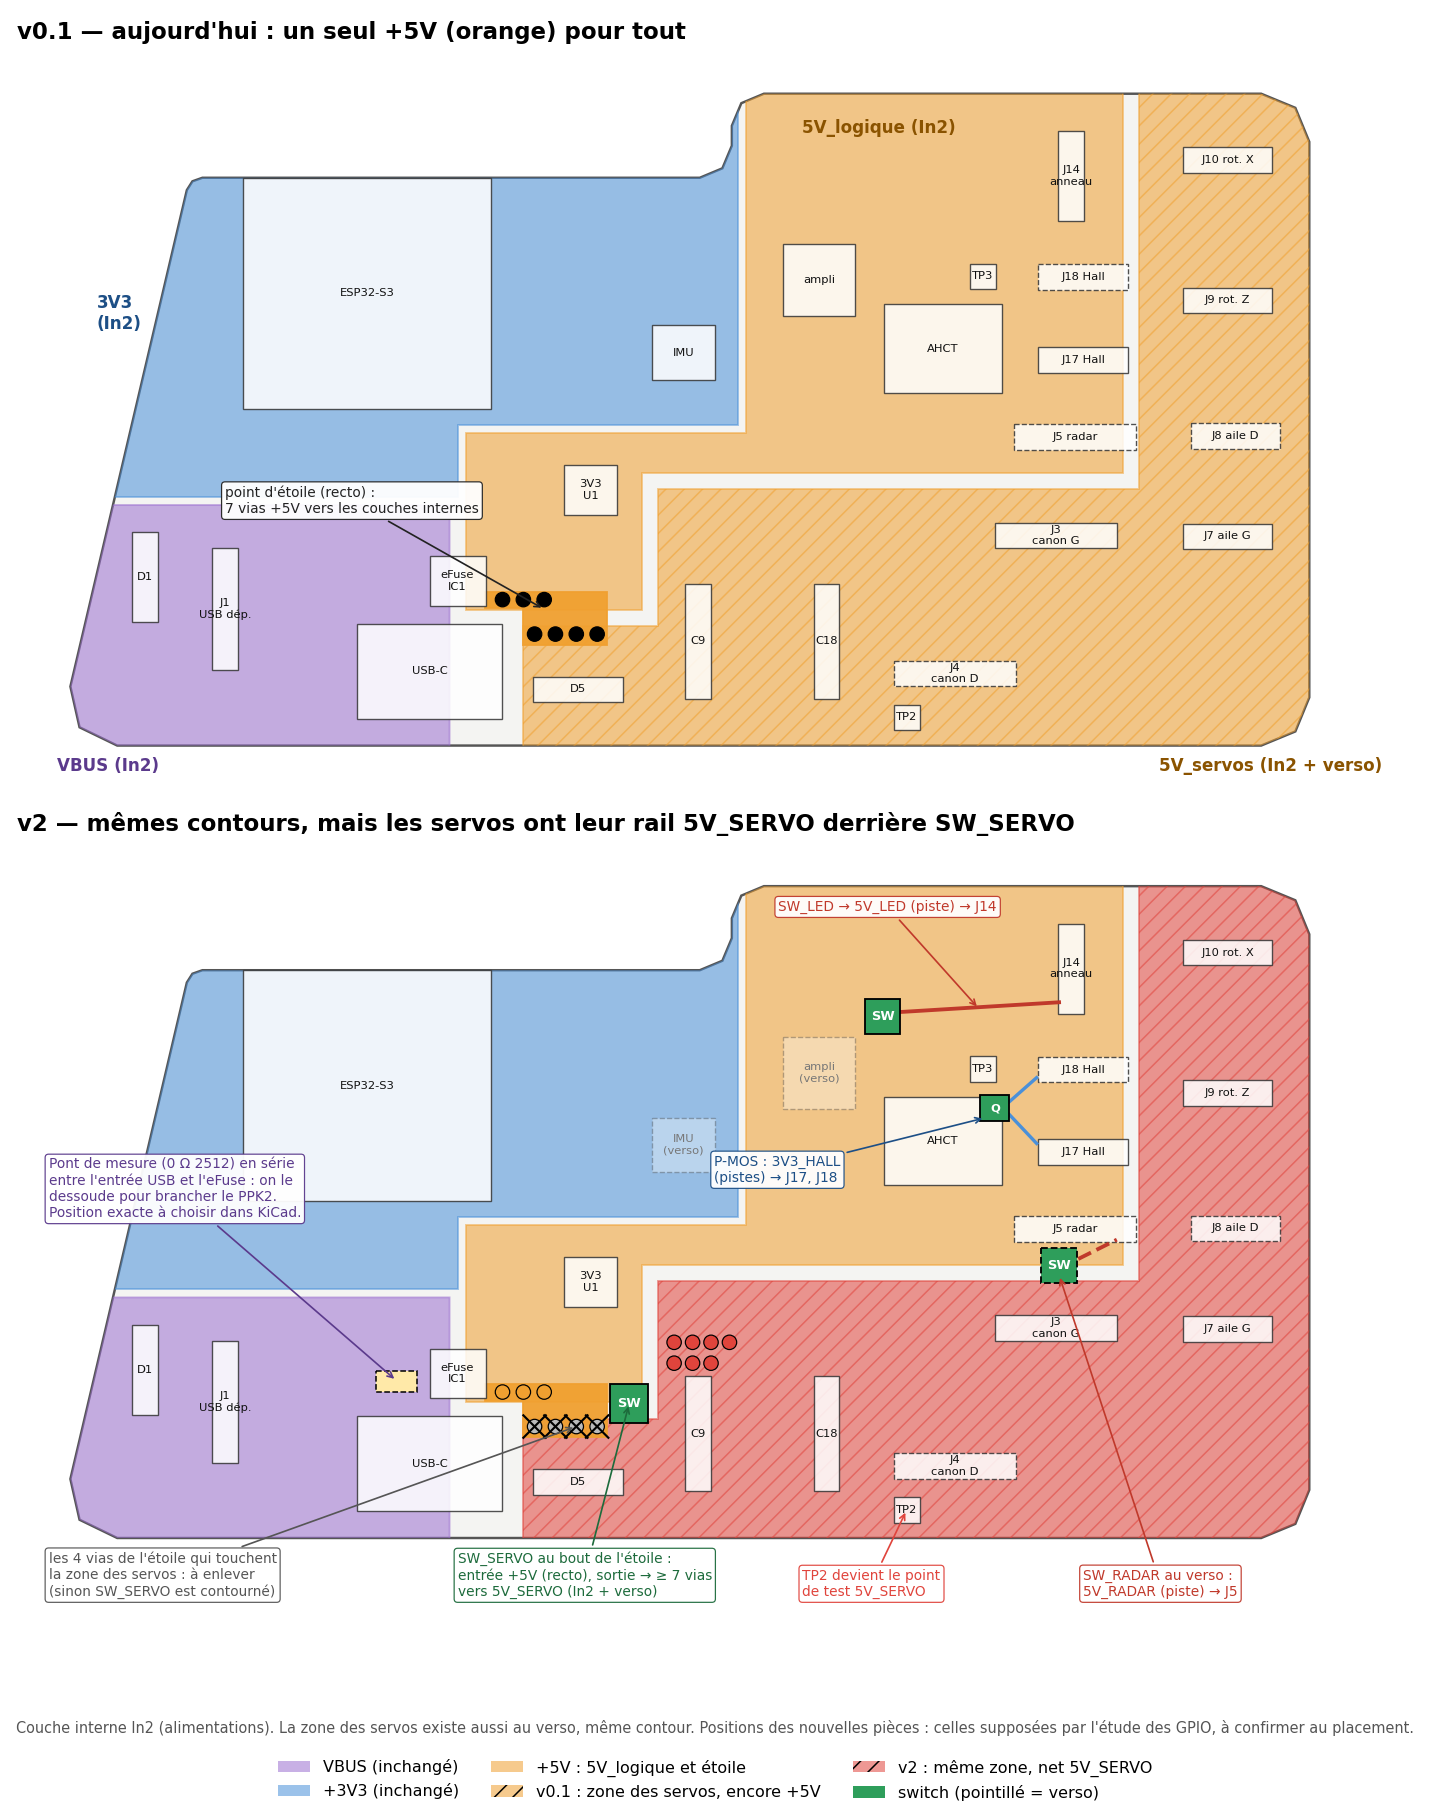
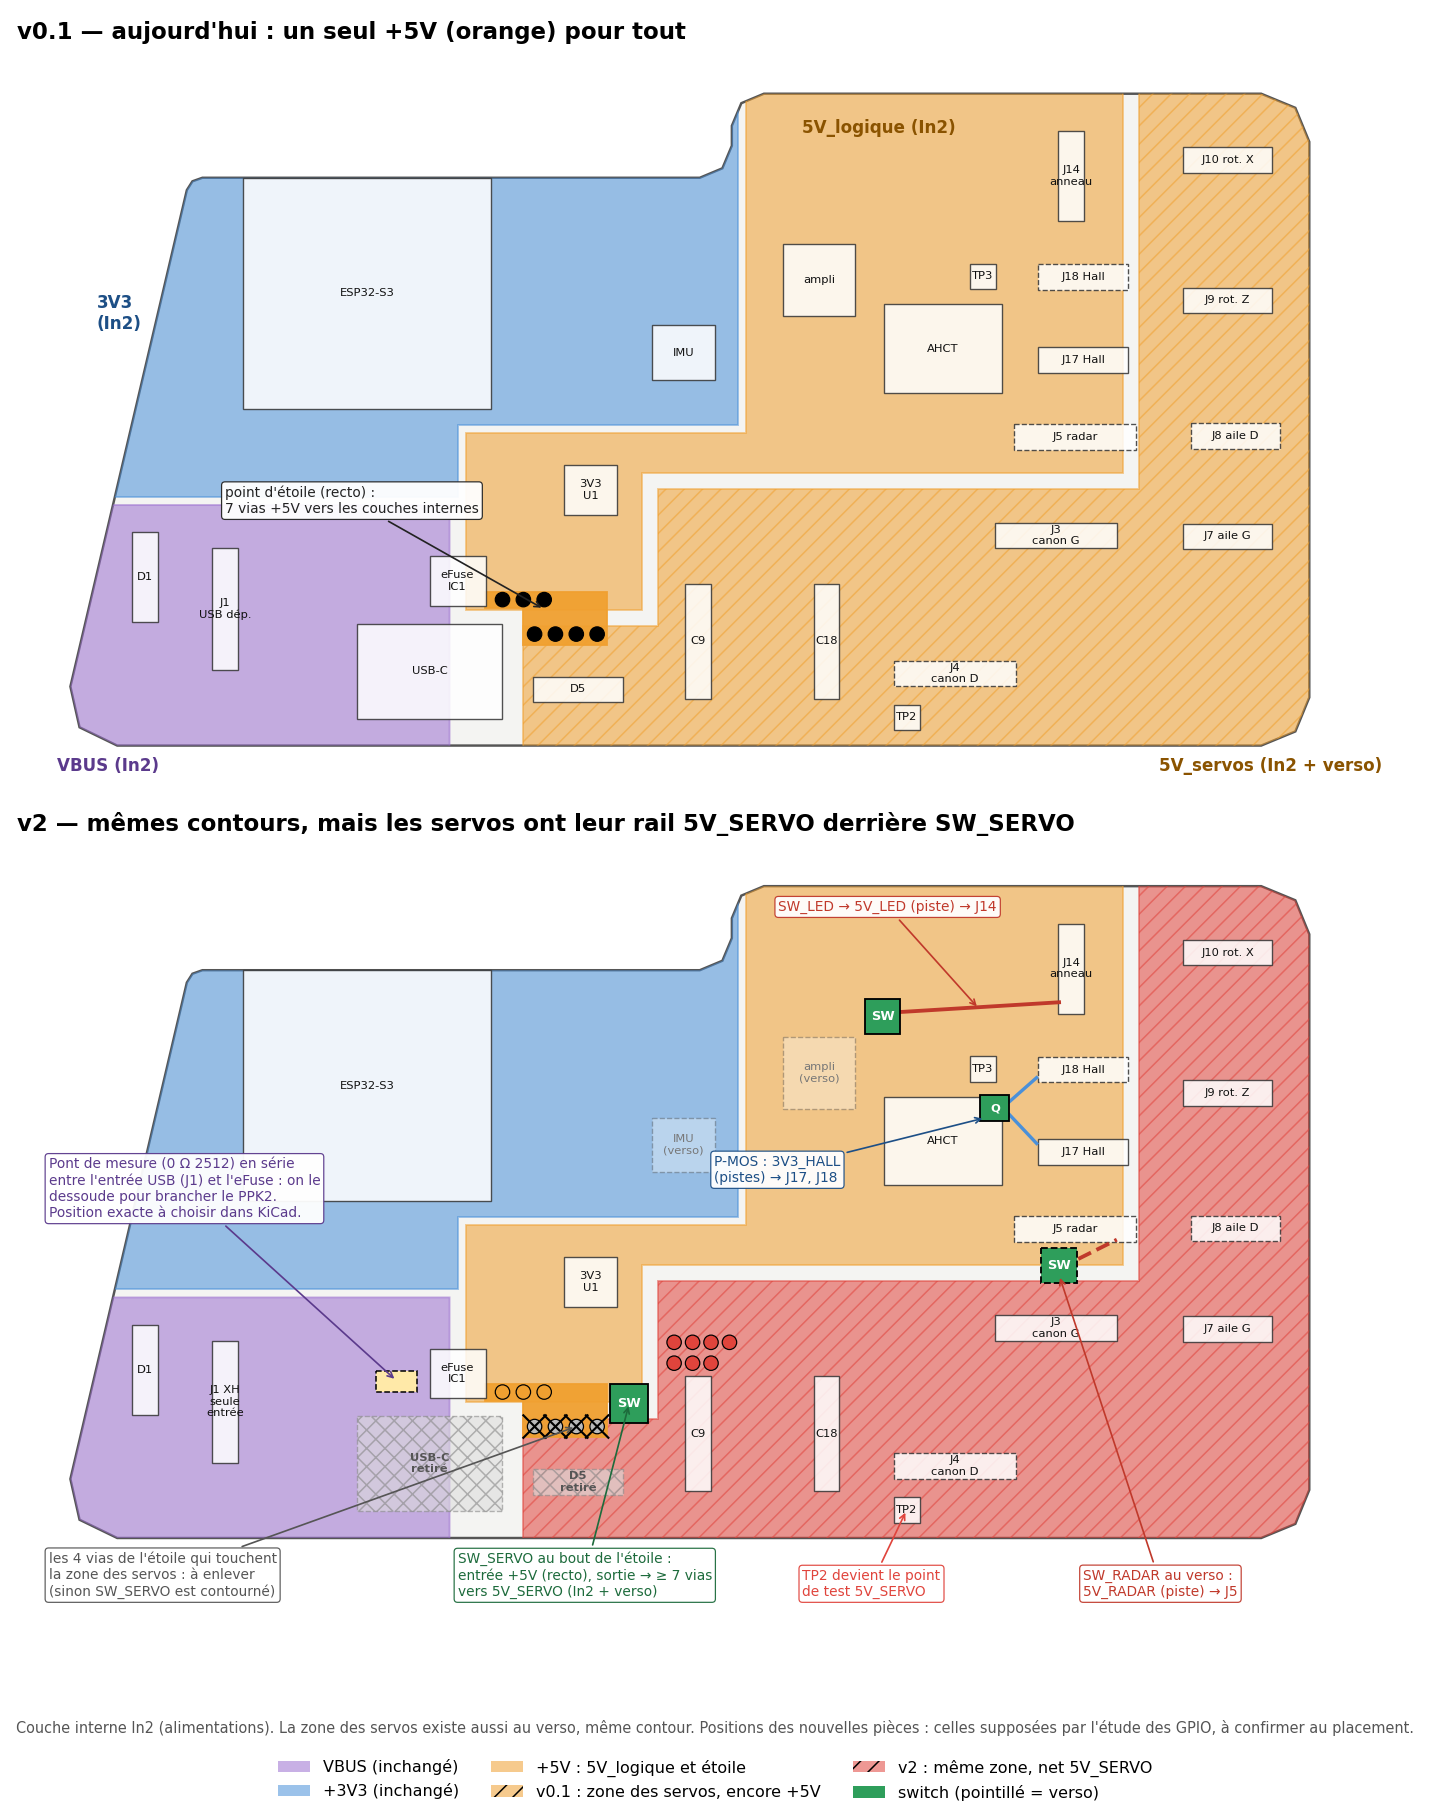
Board v2: on-board USB-C removed, J1 in JST-XH, right part 5-6 mm taller
- The on-board USB-C (USBC1), its CC resistors (R1, R2) and the second TVS
  (D5) go after repeated intermittent contacts on D-. The only input is the
  remote USB on J1, moved from JST-PH (2 A per contact) to JST-XH 4-pin
  (3 A per contact, 22 AWG power wires), same pinout. D1 and D2 next to J1.
- The right part of the board grows by 5 to 6 mm (the speaker is 8 mm above
  the current edge, measured in Fusion); the left part cannot, because of
  the ESP32 antenna keep-out. About 2 cm2 more: a few small parts; the
  back-side plan stays the base. Guide step 5.0 gives the edge coordinates.
- Pictures: docs/img/agrandir-carte-v2.png (new), zones-alim-v2.png (USB-C
  and D5 removed in the v2 panel).

Plan (carte-v2-plan.md) sections 0, 1.1, 2, 3, 7, 8, 11; KiCad guide;
journal.

Changed region(s): [[0.2462, 0.7713, 0.4308, 0.8331], [0.1846, 0.6479, 0.2462, 0.6788]]

diff --git a/docs/firmware-improvements.md b/docs/firmware-improvements.md
@@ -725,3 +725,15 @@ Commit `0509307` poussé (logo Aperture sur l'OLED et la page web ; plan de la c
 - CMS de la face B regroupés pour un pochoir partiel ;
 - connecteurs traversants au fer en dernier ;
 - pas de seringue pour le LGA ni le TQFN.
+
+### 23.10.2026 — v2 : USB-C de la carte retiré, J1 en JST-XH
+
+**Demande** : « de nouveau des problèmes avec le connecteur USB » (faux contact sur D−, d'après l'utilisateur) : retirer l'USB-C de la carte et ne garder que l'USB déporté. Puis, pour le courant de J1 : « plus simple de partir sur un connecteur plus gros ».
+
+**Constat** : D− est câblé deux fois sur l'USB-C (A7, B7) : un faux contact sur une seule soudure ne marche que dans un sens de la fiche (test : la retourner ; réparation : refaire A6, A7, B6, B7). En usage normal, la tourelle est déjà alimentée par J1 (prise de la carte accessible capot ouvert seulement, design-plan §10). Contacts JST-PH : 2 A (24 AWG au plus) ; JST-XH : 3 A (22 AWG) ; JST-VH : 10 A (16 AWG) [datasheets JST].
+
+**Fait** (`carte-v2-plan.md`, `carte-v2-kicad.md`, image) : USBC1, R1, R2 (5,1 kΩ du CC, déjà sur l'ADA6050) et D5 retirés ; **J1 en JST-XH 4 broches** (B4B-XH-A, même brochage, VBUS et GND en 22 AWG : 0,05 V à 3 A sur 15 cm) ; D1 et D2 collées à J1 ; câble de banc (ADA6050 de rechange) pour travailler hors de la tourelle ; une seule TVS (pire fuite 0,8 mA au lieu de 1,6) ; règle « Pas fin » sans USBC1 ; zones et image mises à jour. Rien à changer côté firmware.
+
+*Puis* : rendus Fusion du support (arche, coque) : de la place au-dessus de la carte. L'antenne de l'ESP32 dépasse du bord haut à gauche (zone d'exclusion de la v0.1 : x 60,1–105,5 mm, antenne + 15 mm de chaque côté) : seule la partie droite peut monter (≈ 36 mm de large). **Décision : monter seulement la partie droite** (déplacer le module, écarté). Plan §0, §8 (image `docs/img/agrandir-carte-v2.png`), §11 ; guide : étape 5.0 (forme dessinée dans Fusion, DXF importé sur Edge.Cuts, calé sur H1 / H2 ; zones à agrandir) et 5.3 (nouvelles pièces dans la place gagnée ; IMU et ampli peut-être au recto, une seule face). Hauteur disponible : à mesurer dans Fusion.
+
+*Puis* : mesure dans Fusion : **8 mm jusqu'au dessous du haut-parleur** → la partie droite monte de **5 à 6 mm** (2 à 3 mm de marge) ; carte de 77 × 41 à 77 × 47 mm ; gain ~2 cm² (+6–7 %) : quelques petites pièces (SW_LED près de J14, J19, points de test, peut-être l'IMU), probablement pas tout au recto. Guide, étape 5.0 réécrite : plus de DXF, le bord haut droit et ses arrondis se déplacent de h dans KiCad (coordonnées pour h = 6 mm), puis export STEP pour vérifier dans Fusion. Image `docs/img/agrandir-carte-v2.png` refaite à l'échelle (haut-parleur à 8 mm, bande de 6 mm).
